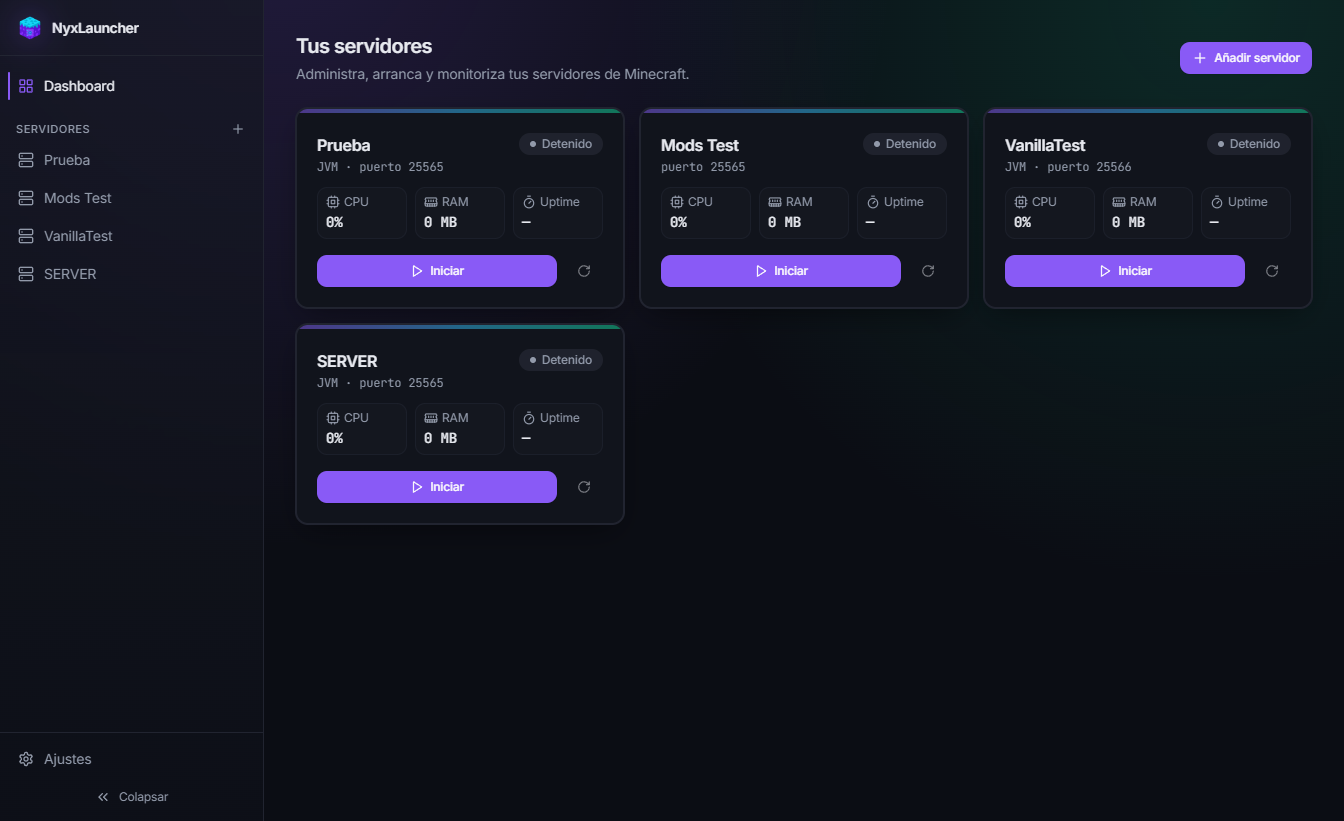
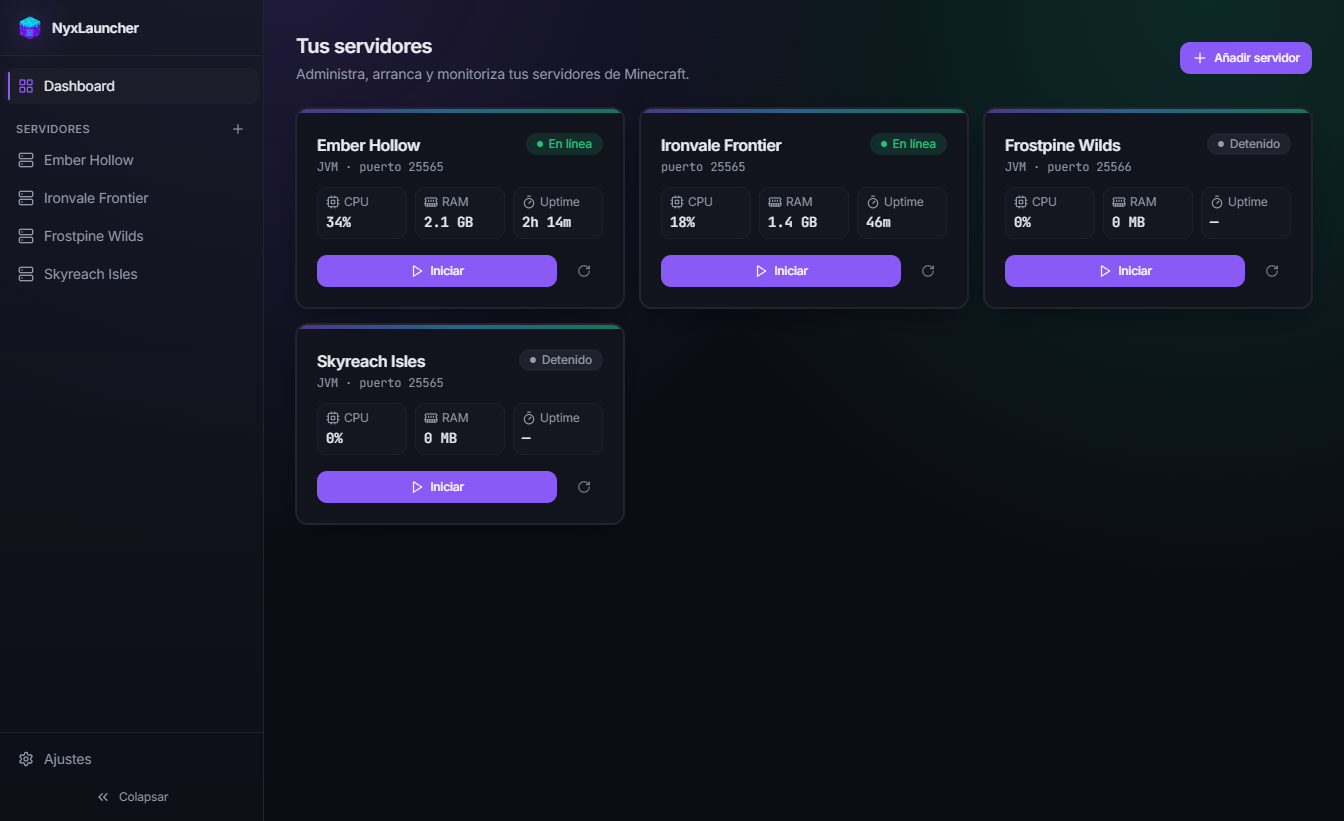
Improve README screenshots: staged demo data and more feature shots
The dashboard screenshot showed real test-server names used during
development. Restaged it with fictional Minecraft-style server names
and a couple running to look more alive, and added shots of the
content manager (Modrinth) and analytics tabs.

diff --git a/README.md b/README.md
@@ -44,6 +44,27 @@ sin salir de la app.
 - 💾 **Copias de seguridad automáticas** — backups programados por servidor.
 - 🔄 **Auto-actualización** — la app se mantiene al día sola.
 
+## Capturas
+
+<table>
+<tr>
+<td width="50%">
+
+**Gestor de contenido** — instala mods y plugins desde Modrinth sin salir de la app.
+
+<img src=".github/assets/screenshot-content.png" alt="Gestor de contenido de NyxLauncher" width="100%" />
+
+</td>
+<td width="50%">
+
+**Analítica** — CPU, RAM y uso de disco de cada servidor en tiempo real.
+
+<img src=".github/assets/screenshot-analytics.png" alt="Analítica de NyxLauncher" width="100%" />
+
+</td>
+</tr>
+</table>
+
 ## Descarga
 
 Última versión para Windows disponible en la
